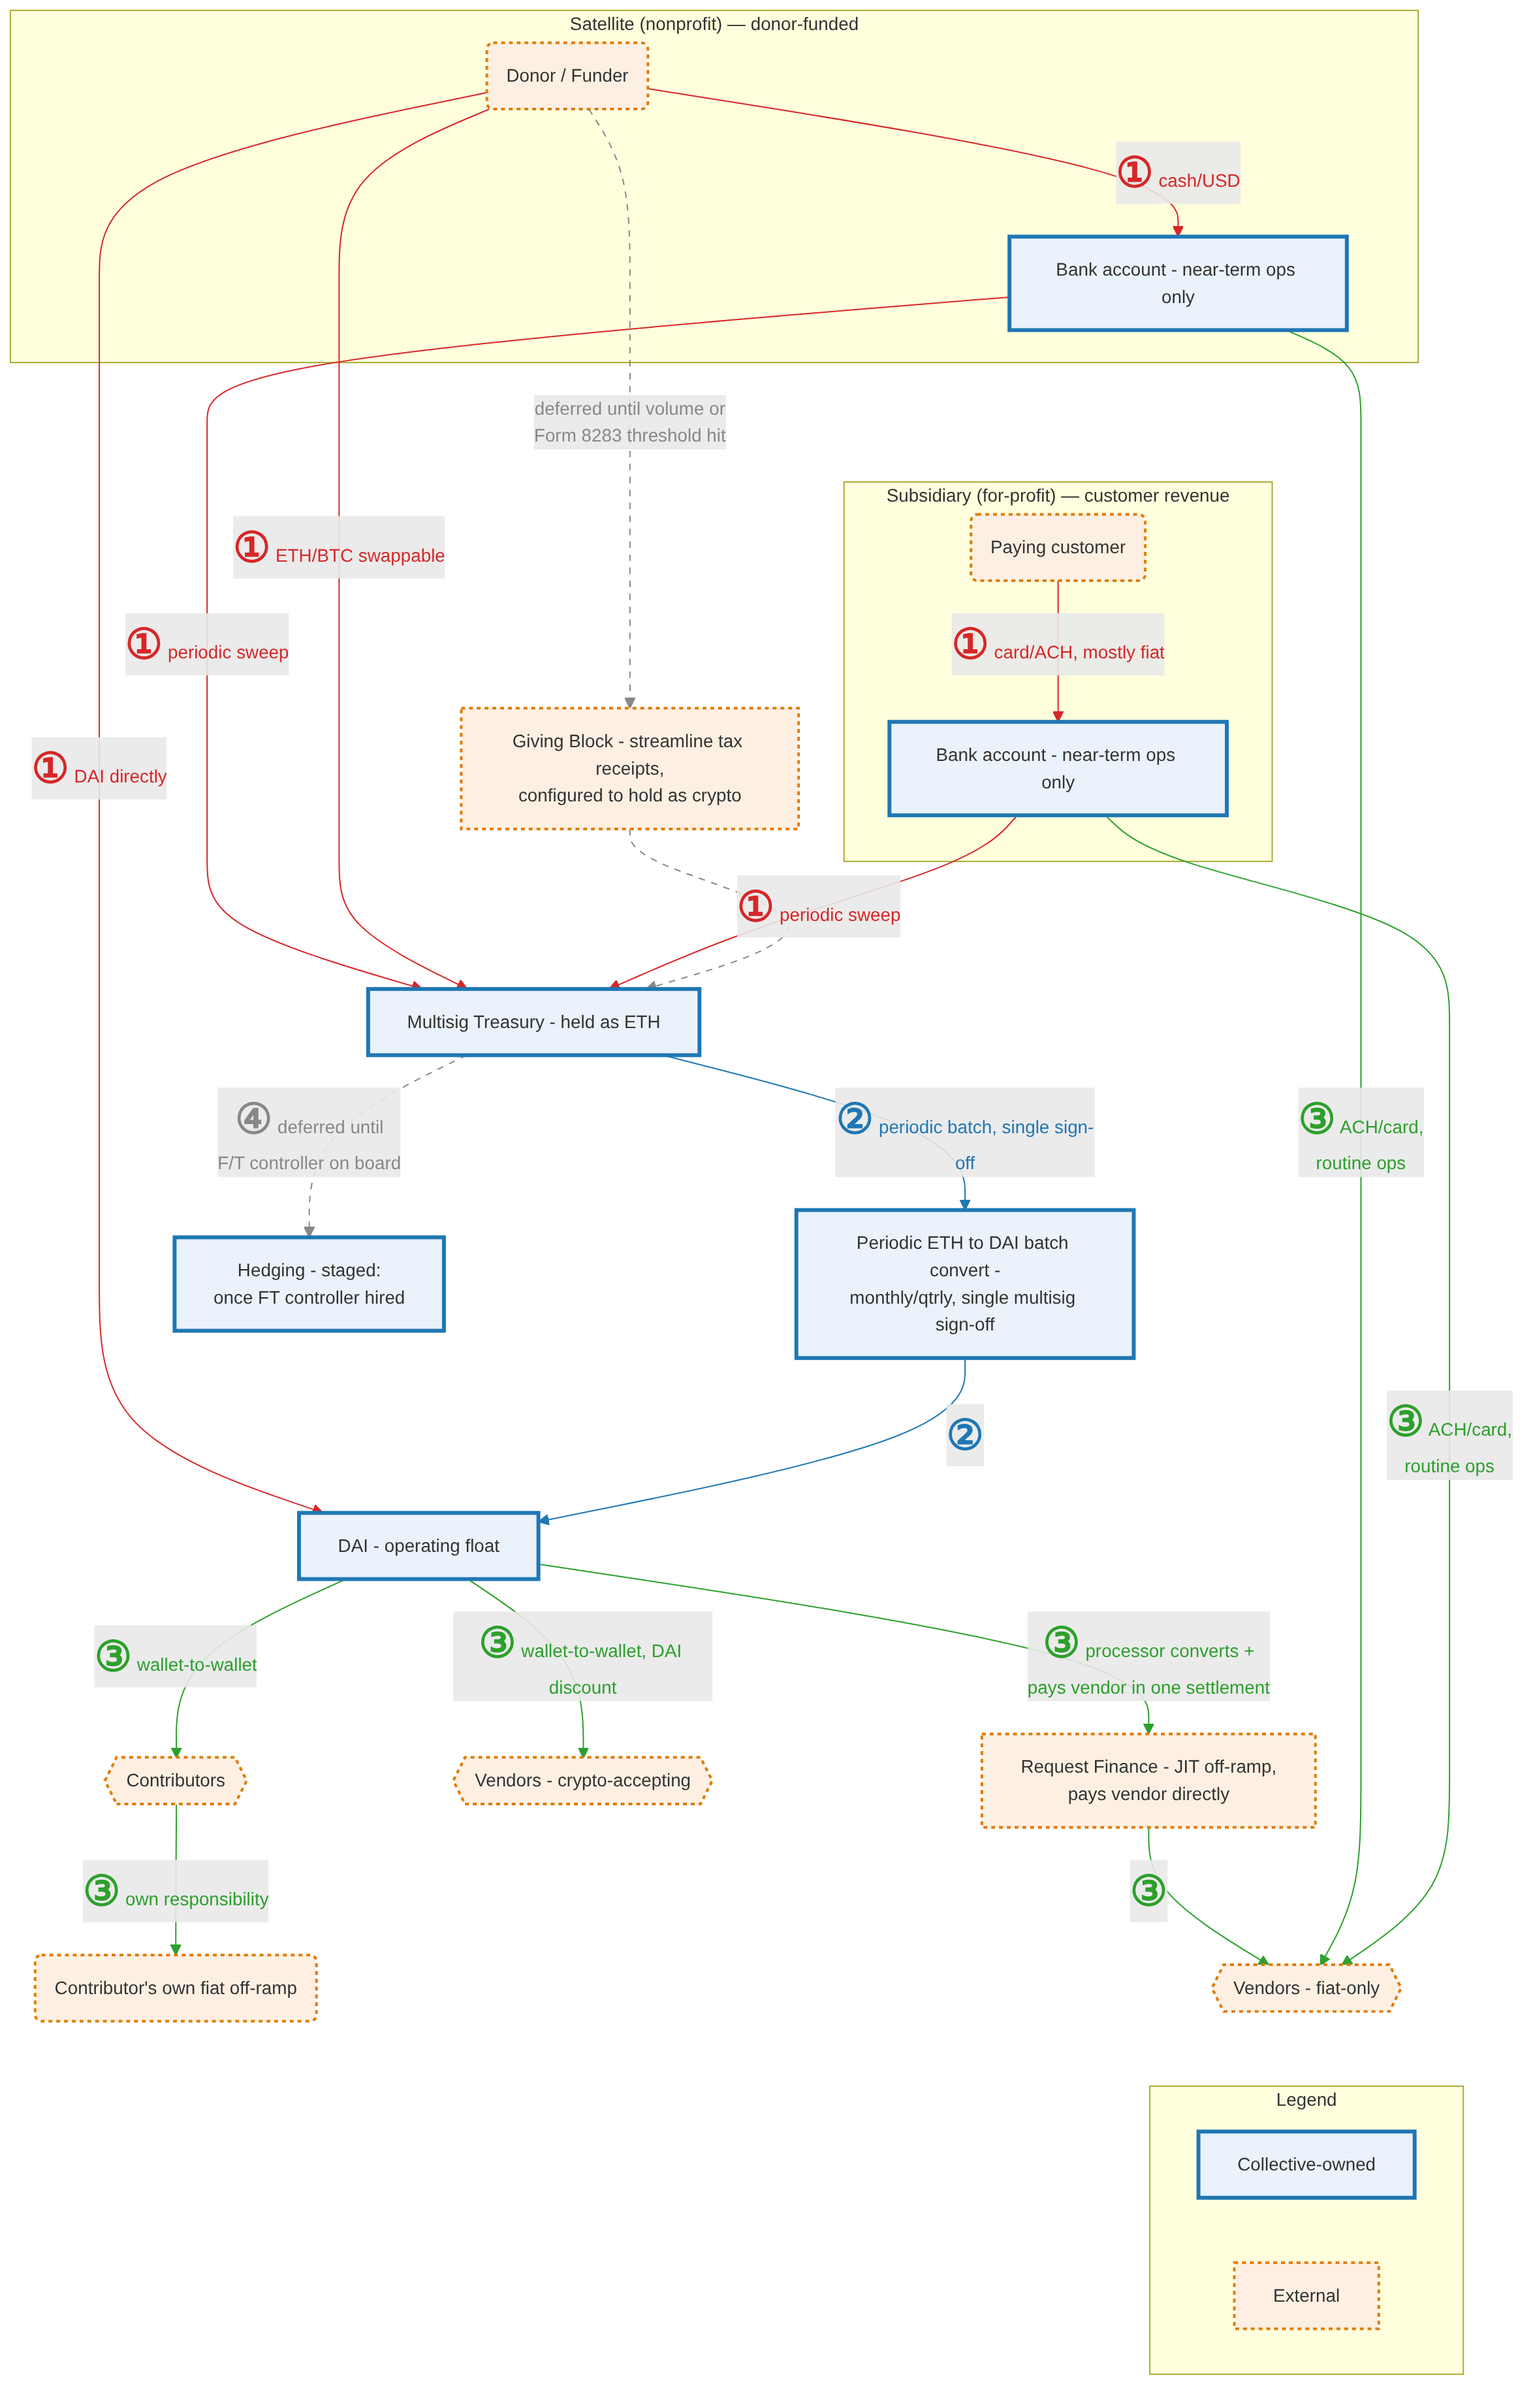
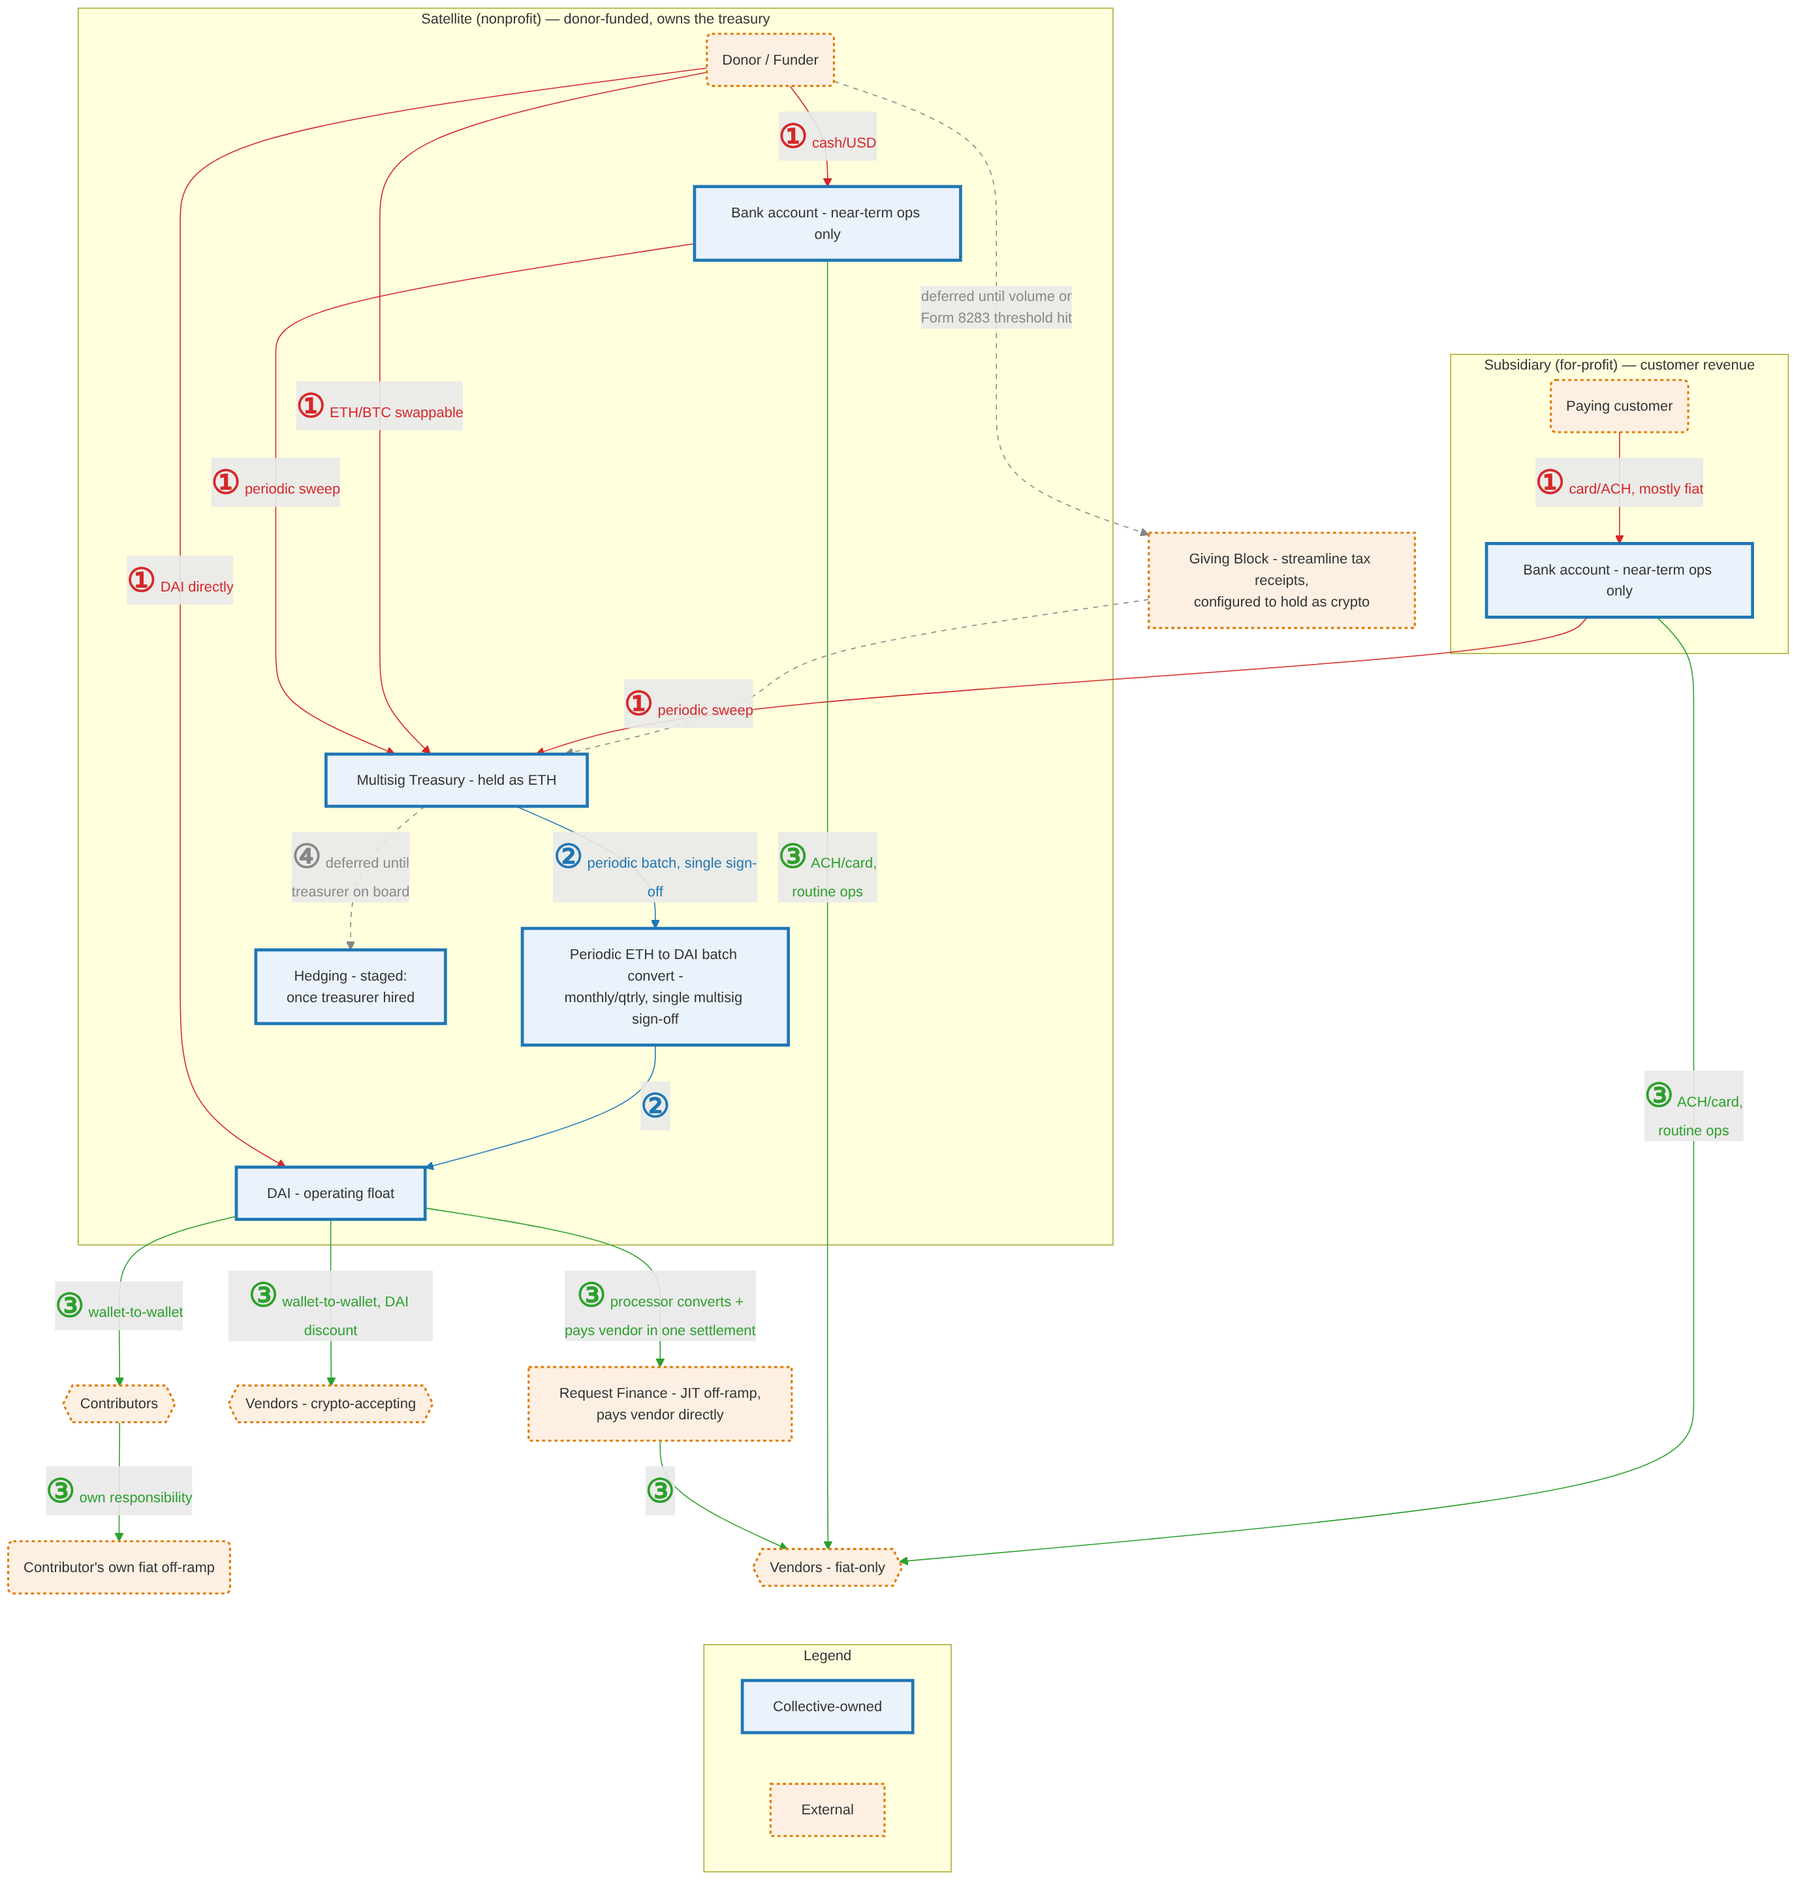
docs: place treasury inside the Satellite in fund-flows diagram and state why
Move the multisig treasury, batch convert, DAI float, and hedging boxes into the
Satellite subgraph, retitle it "owns the treasury", and use "treasurer" in the
hedging labels. Explain in "Money in" that the two entities are separate legal
entities with separate bank accounts, and that the subsidiary's sweep is a
distribution from a wholly-owned subsidiary to its parent.

diff --git a/governance/commons-hub-pattern.md b/governance/commons-hub-pattern.md
@@ -833,7 +833,10 @@ operating float, or ETH or BTC straight to the treasury. Customers pay the subsi
 card or ACH, mostly in fiat. Whatever lands in a bank account is swept periodically into
 the multisig treasury and held as ETH. That is the reason both bank accounts are labeled
 "near-term ops only": bank accounts are the one part of this structure a U.S. freeze can
-reach, so we keep as little in them as possible.
+reach, so we keep as little in them as possible. The Satellite and its subsidiary are
+separate legal entities, which is why each keeps its own bank account. Everything
+downstream of the sweep, from the treasury to the DAI float, belongs to the Satellite,
+so the subsidiary's sweep is a distribution from a wholly-owned subsidiary to its parent.
 
 *Converting (②).* Once a month or quarter, a batch converts part of the ETH treasury into
 DAI on a single multisig sign-off, refilling the operating float. This is the two-tier
